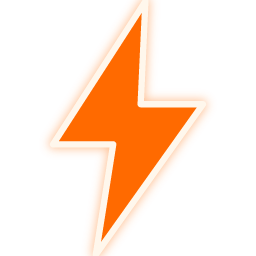
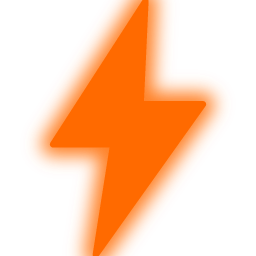
feat: one colour per symbol, with the border glowing in that same colour
The glyph and its border are now a single affinity value. The border is the
blurred pass showing past the crisp one, so the edge glows in the symbol's own hue
rather than being outlined in a second colour. A Power bolt is #FF6A00 throughout,
matching the spine, chip, circuit ring and cost pips beside it.

The trade is internal contrast. Bitcoin's counters and Timelock's clock face used
to be cream against the glyph and are now the same hue as it, so those details
soften below about 32px. The silhouette still carries at pip size, which is what
the symbol is doing there.

Changed region(s): [[0.125, 0.0, 0.875, 1.0]]

diff --git a/scripts/build_icons.py b/scripts/build_icons.py
@@ -73,7 +73,7 @@ GLYPH = {
 
 # One dial for the halo. Signal carries its own alpha because its accent IS cream,
 # so a cream glow behind a cream glyph blows out where the others do not.
-GLOW = {"blur": 0.9, "w": 1.6, "k": 5.6, "k2": 4.0, "alpha": 0.42, "signal_alpha": 0.22}
+GLOW = {"blur": 1.5, "w": 4.5, "k": 8.5, "k2": 6.5, "alpha": 0.85, "signal_alpha": 0.5}
 
 TITLE = {
     "power": "Power",
@@ -103,11 +103,10 @@ for name, (scale, body) in GLYPH.items():
     accent = ACCENT[name]
     # Halo pass: everything painted in the accent and widened, then blurred.
     halo = body.format(f=accent, c=accent, s=accent, w=GLOW["w"], k=GLOW["k"], k2=GLOW["k2"])
-    # Crisp pass: the glyph IS the affinity colour, the same value the card's spine,
-    # type chip and circuit ring already carry, so a symbol and its card read as one
-    # thing. Cream is kept only as a thin outline so the glyph does not dissolve into
-    # a same-hue background.
-    crisp = body.format(f=accent, c="#FFF7EC", s=accent, w=1.2, k=5, k2=3)
+    # One colour, end to end: the glyph and its border are both the affinity value
+    # the card already uses. The border is the blurred pass showing past the crisp
+    # one, so the edge glows in the same hue instead of being outlined in a second.
+    crisp = body.format(f=accent, c=accent, s=accent, w=1.2, k=5, k2=3)
     alpha = GLOW["signal_alpha"] if name == "signal" else GLOW["alpha"]
     svg = TEMPLATE.format(
         title=TITLE[name], scale=f"{scale:.2f}", halo=halo, crisp=crisp,
